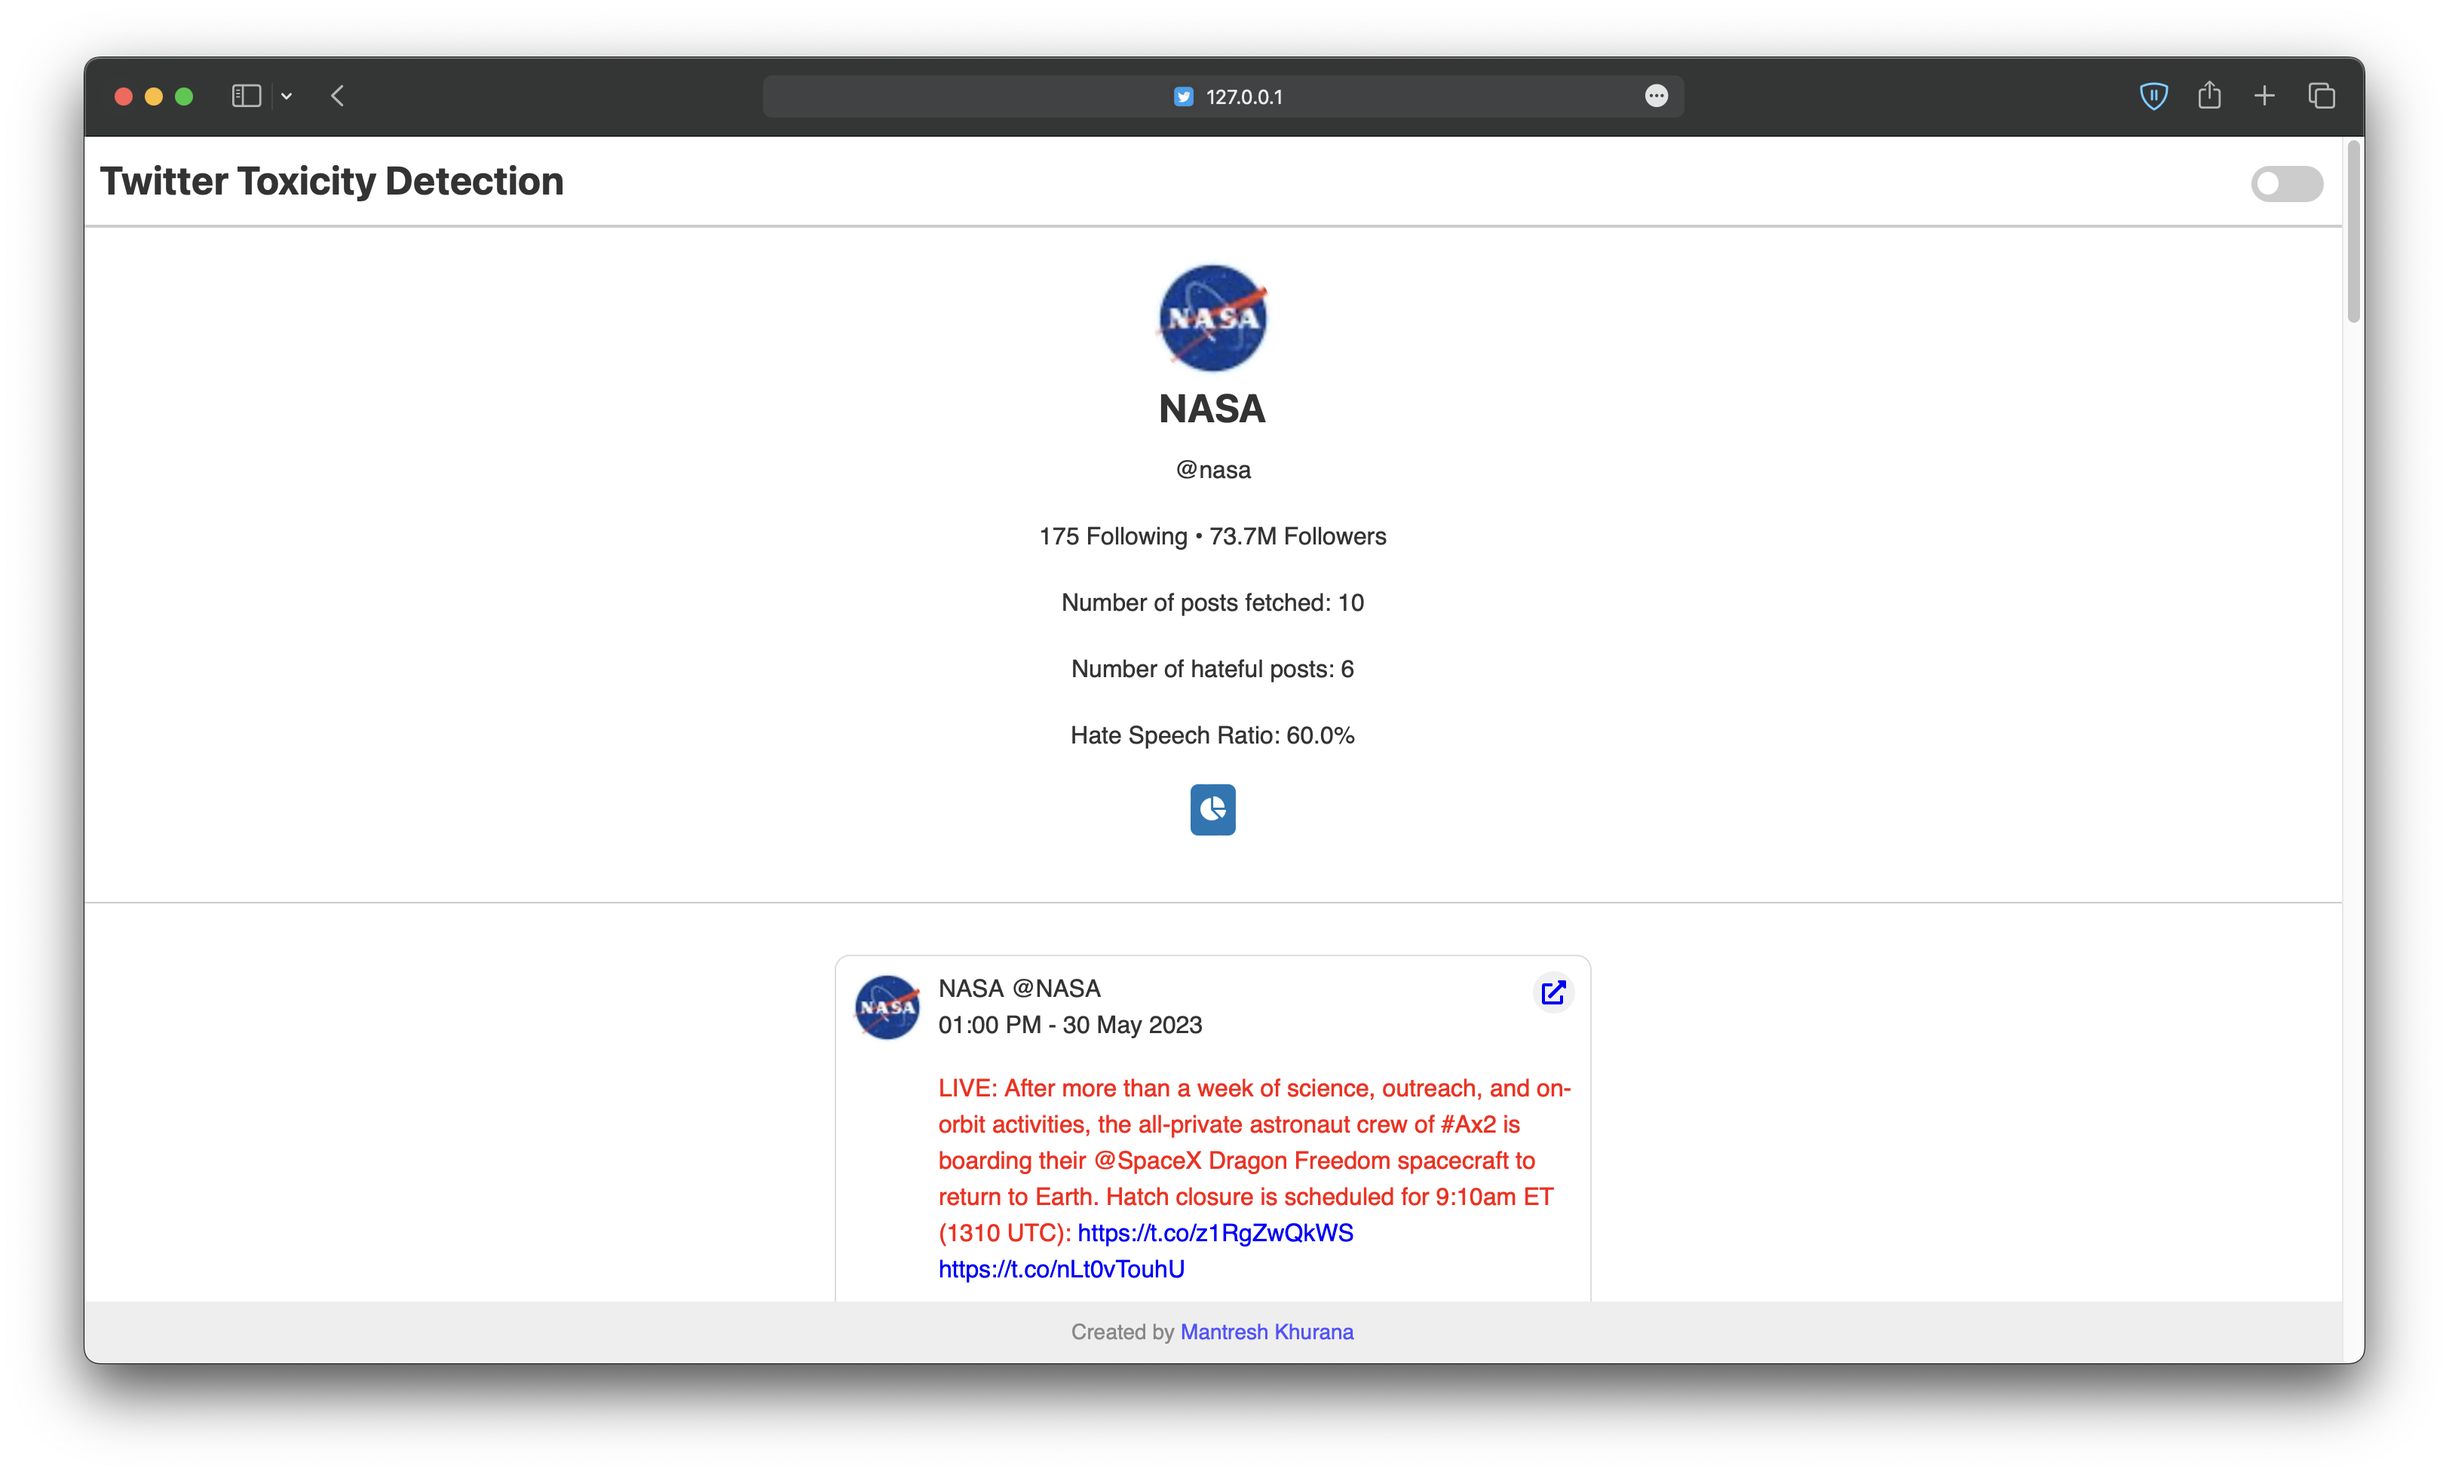
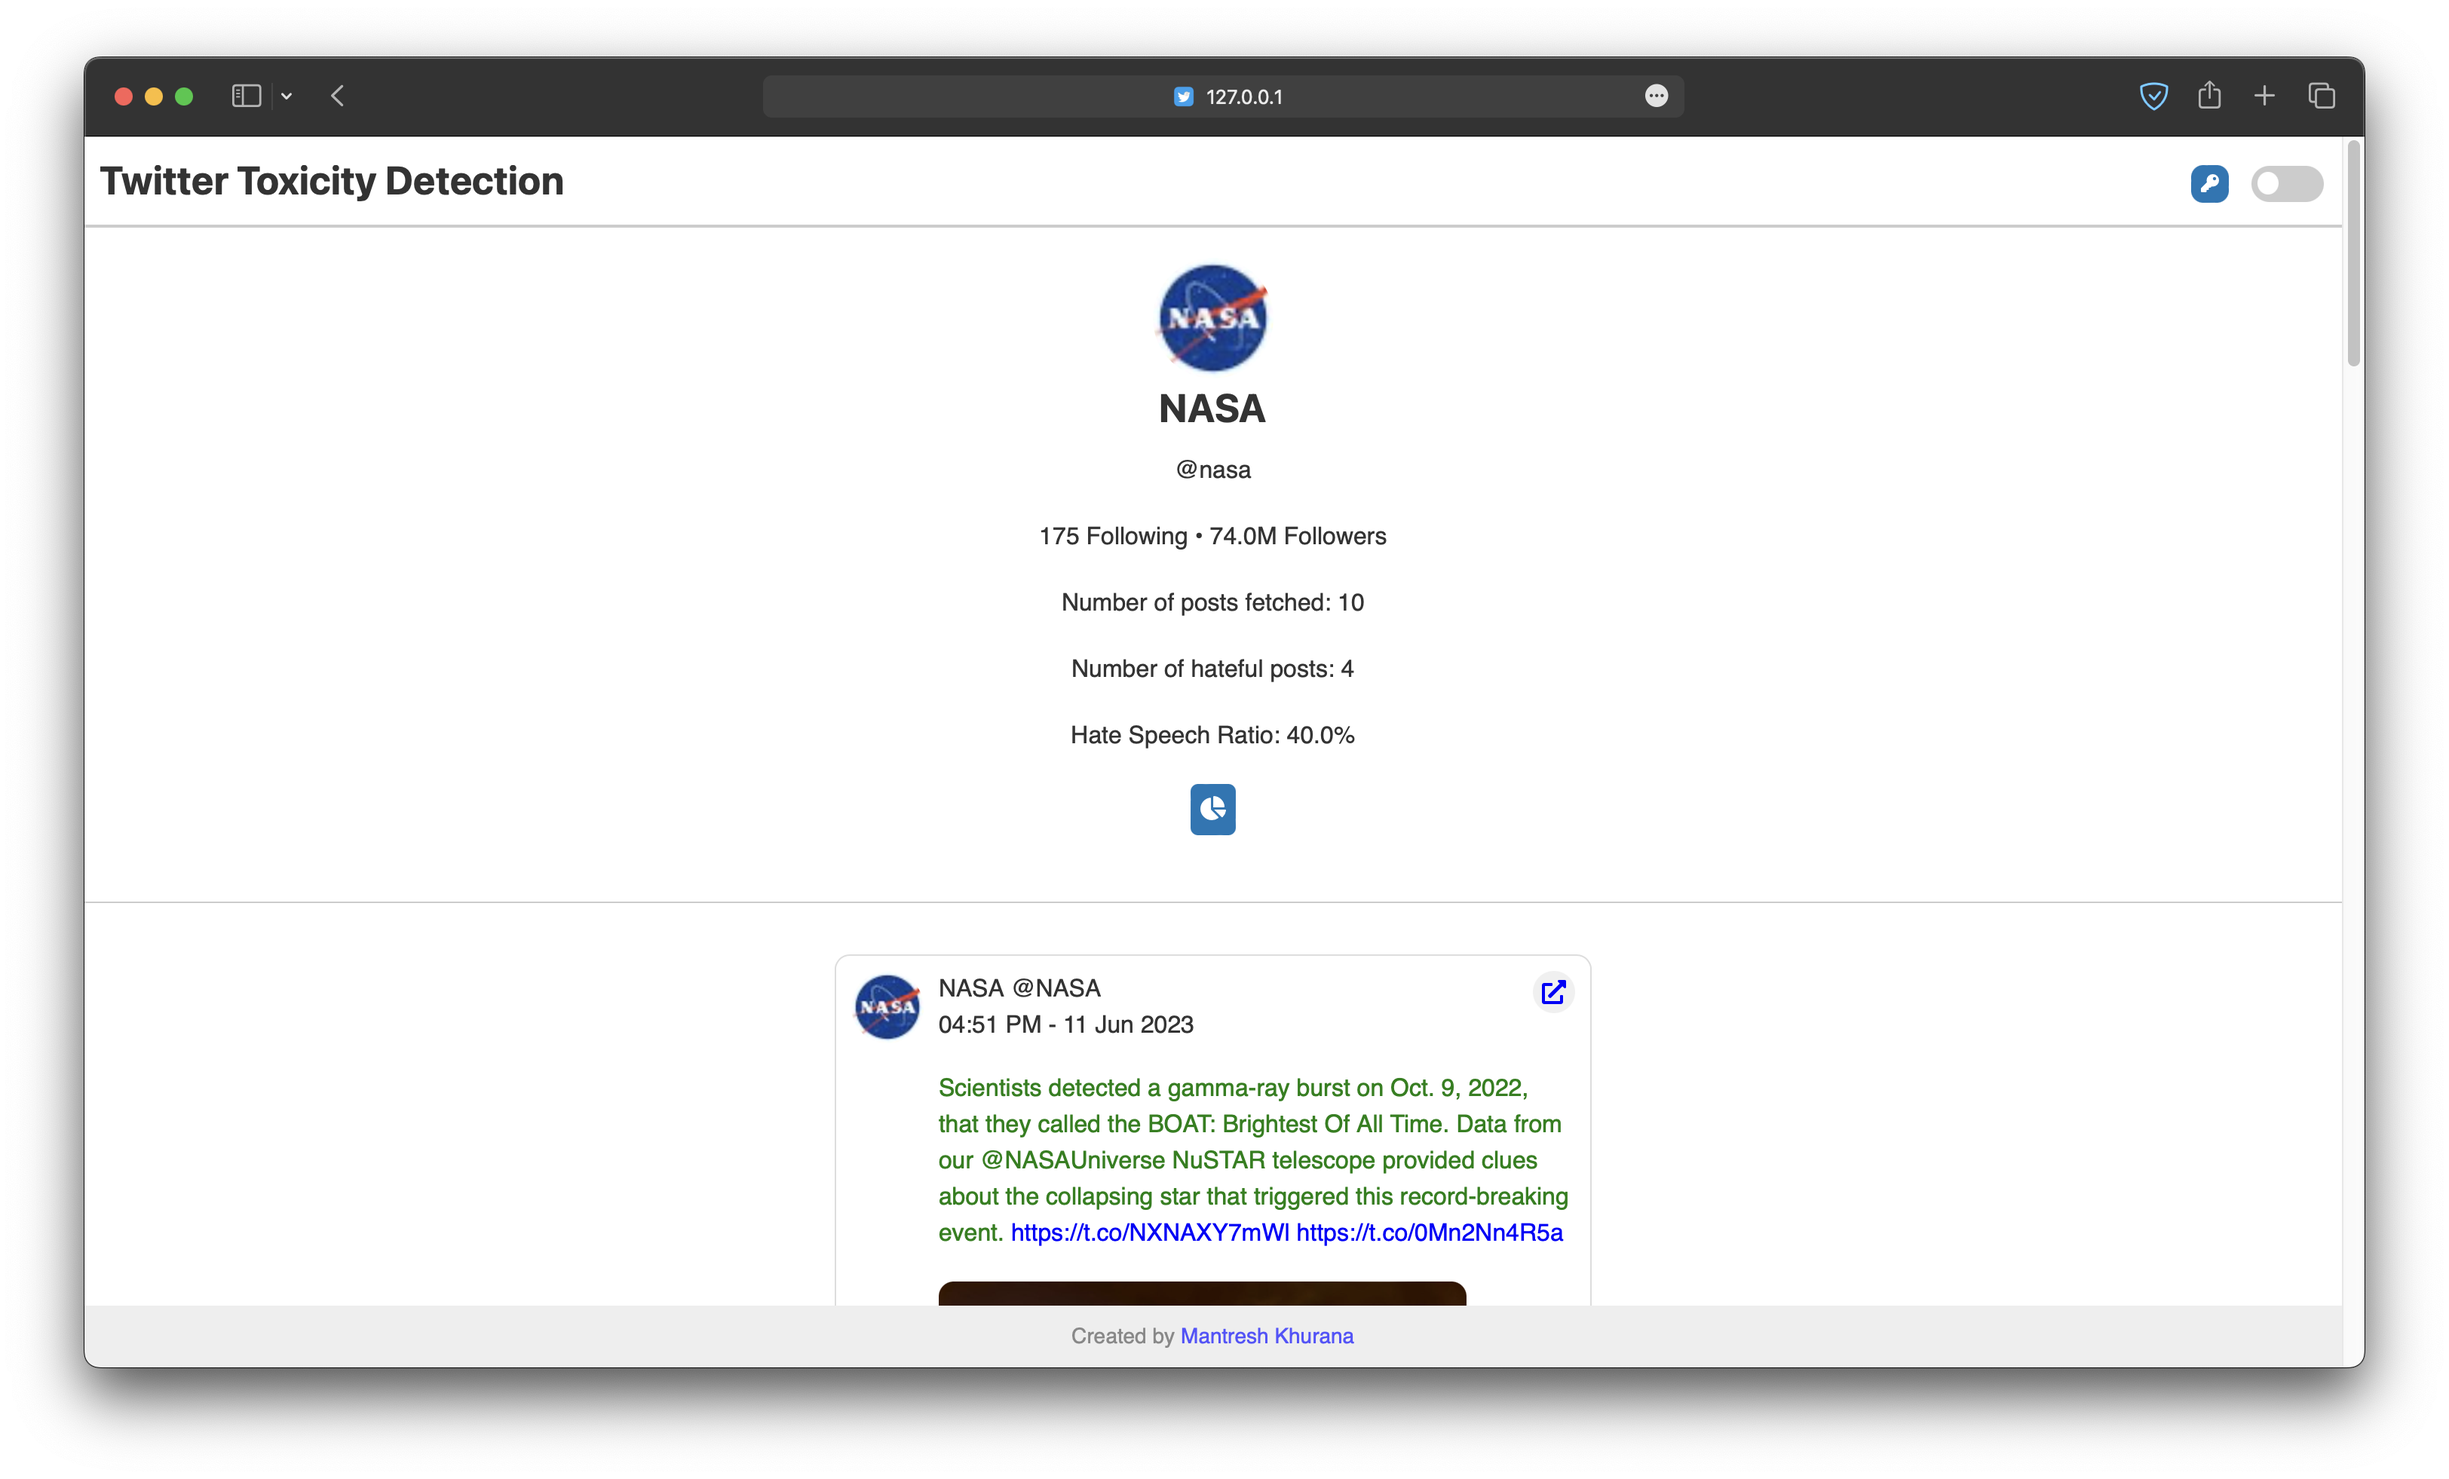
Update

diff --git a/README.md b/README.md
@@ -44,6 +44,14 @@ You can see a pie chart which portrays the percentage of tweets that are toxic a
   <img src="./assets/screenshots/screenshot-3-chart.png" width="300">
 </a>
 
+## API Keys Popup
+
+After saving the API keys, you can close the popup and restart the flask server.
+
+| Light | Dark |
+| :---: | :---: |
+| ![App Screenshot](./assets/screenshots/screenshot-5-popup-light.png) | ![App Screenshot](./assets/screenshots/screenshot-5-popup-dark.png)
+
 ### Window GUI
 
 ![App Screenshot](./assets/screenshots/screenshot-4-app.png)
@@ -141,7 +149,7 @@ python app.py -p 8000
 - [x] Twitter like feed.
 - [x] Simple bot protection.
 - [x] GUI Window Added.
-- [ ] Dialog to store API Keys in `.env`.
+- [x] Dialog to store API Keys in `.env`.
 - [ ] Images/Videos toxicity detection.
 
 ## Project Structure
